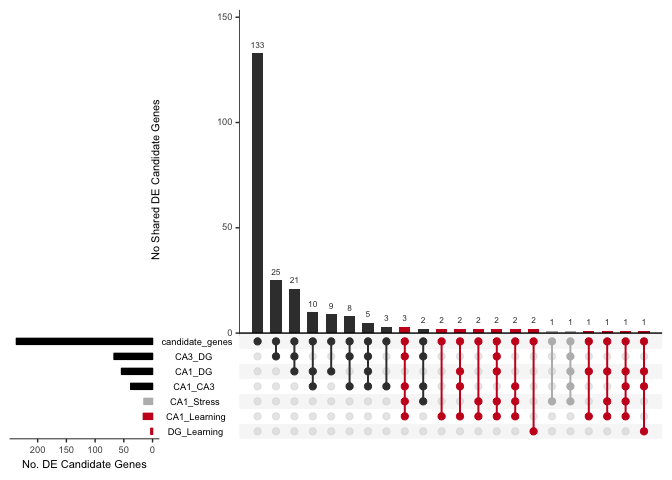
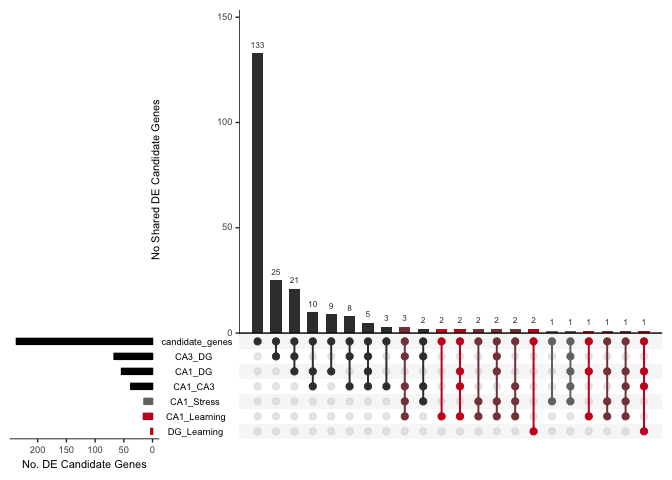
now with hybrid color

diff --git a/scripts/02i_candidategenes.md b/scripts/02i_candidategenes.md
@@ -338,7 +338,7 @@ expressed between the three subfields of the hippocampus.
                           list(query = intersects, params = list("CA1_Learning"), color = "#ca0020", active = T),
                         # stress related
                          list(query = intersects, params = list("CA1_Stress" ), color = "#404040", active = T),
-                          list(query = intersects, params = list("CA1_Learning","CA1_Stress"), color = "#404040", active = T)))
+                          list(query = intersects, params = list("CA1_Learning","CA1_Stress"), color = "#854247", active = T)))
 
 ![](../figures/02i_candidategenes/upset-1.png)
 
@@ -348,21 +348,23 @@ expressed between the three subfields of the hippocampus.
           sets = c("DG_Learning","CA1_Learning", "CA1_Stress","CA1_CA3", "CA1_DG",  "CA3_DG",   "candidate_genes"),
           scale.intersections = "log2",
           sets.x.label = "No. DE Candidate Genes", 
-          sets.bar.color=c("#ca0020","#ca0020",  "#bababa", "black", "black", "black", "black"),
-          queries = list(# learning related
+          sets.bar.color=c("#ca0020","#ca0020",  "#737373", "black", "black", "black", "black"),
+          queries = list(# learning only
                          list(query = intersects, params = list("candidate_genes", "DG_Learning"), color = "#ca0020", active = T),
                          list(query = intersects, params = list("candidate_genes", "DG_Learning", "CA1_CA3",  "CA1_DG"), color = "#ca0020", active = T),
                          list(query = intersects, params = list("candidate_genes", "CA1_Learning"), color = "#ca0020", active = T),
                          list(query = intersects, params = list("candidate_genes", "CA1_Learning", "CA1_CA3",  "CA1_DG"), color = "#ca0020", active = T),
-                         list(query = intersects, params = list("candidate_genes", "CA1_Learning", "CA1_Stress"), color = "#ca0020", active = T),
                          list(query = intersects, params = list("candidate_genes", "CA1_Learning", "CA1_DG"), color = "#ca0020", active = T),
-                         list(query = intersects, params = list("candidate_genes", "CA1_Learning", "CA1_Stress", "CA1_CA3" ), color = "#ca0020", active = T),
-                         list(query = intersects, params = list("candidate_genes", "CA1_Learning", "CA1_Stress", "CA1_DG" ), color = "#ca0020", active = T),
-                         list(query = intersects, params = list("candidate_genes", "CA1_Learning", "CA1_Stress", "CA1_CA3", "CA3_DG" ), color = "#ca0020", active = T),
-                         list(query = intersects, params = list("candidate_genes", "CA1_Learning", "CA1_Stress", "CA1_DG", "CA3_DG" ), color = "#ca0020", active = T),
-                         list(query = intersects, params = list("candidate_genes", "CA1_Learning", "CA1_Stress", "CA1_CA3", "CA1_DG" ), color = "#ca0020", active = T),
+
+                         # learning and stress
+                         list(query = intersects, params = list("candidate_genes", "CA1_Learning", "CA1_Stress"), color = "#854247", active = T),
+                         list(query = intersects, params = list("candidate_genes", "CA1_Learning", "CA1_Stress", "CA1_CA3" ), color = "#854247", active = T),
+                         list(query = intersects, params = list("candidate_genes", "CA1_Learning", "CA1_Stress", "CA1_DG" ), color = "#854247", active = T),
+                         list(query = intersects, params = list("candidate_genes", "CA1_Learning", "CA1_Stress", "CA1_CA3", "CA3_DG" ), color = "#854247", active = T),
+                         list(query = intersects, params = list("candidate_genes", "CA1_Learning", "CA1_Stress", "CA1_DG", "CA3_DG" ), color = "#854247", active = T),
+                         list(query = intersects, params = list("candidate_genes", "CA1_Learning", "CA1_Stress", "CA1_CA3", "CA1_DG" ), color = "#854247", active = T),
                          # stress only
-                         list(query = intersects, params = list("candidate_genes","CA1_Stress" ), color = "#bababa", active = T),
-                          list(query = intersects, params = list("candidate_genes","CA1_Stress", "CA1_CA3", "CA1_DG",  "CA3_DG" ), color = "#bababa", active = T)))
+                         list(query = intersects, params = list("candidate_genes","CA1_Stress" ), color = "#737373", active = T),
+                          list(query = intersects, params = list("candidate_genes","CA1_Stress", "CA1_CA3", "CA1_DG",  "CA3_DG" ), color = "#737373", active = T)))
 
 ![](../figures/02i_candidategenes/upset-2.png)
